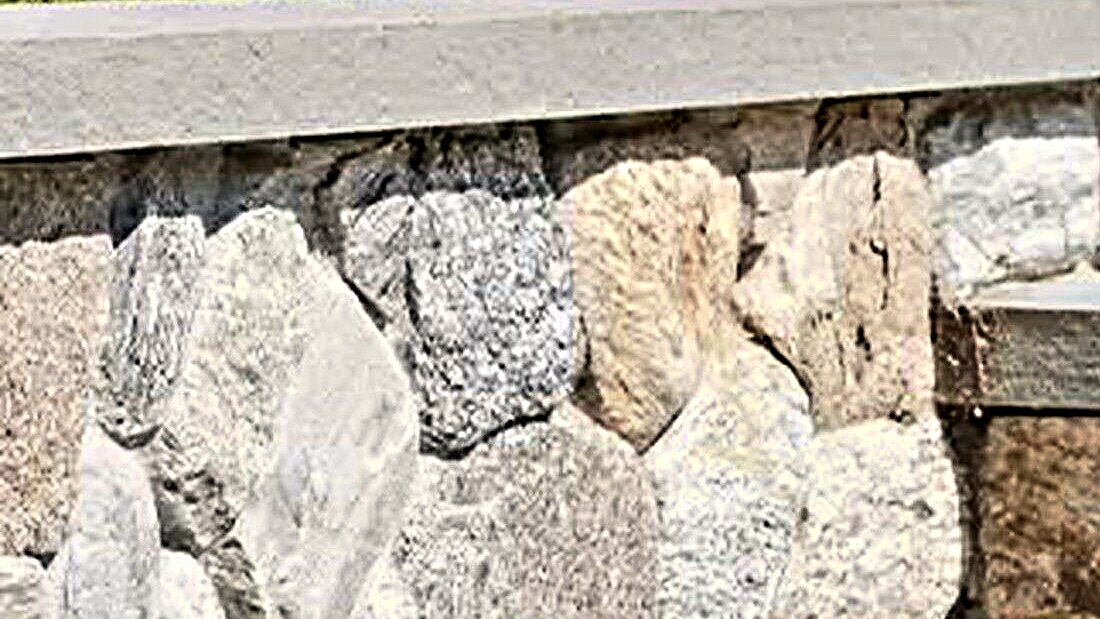
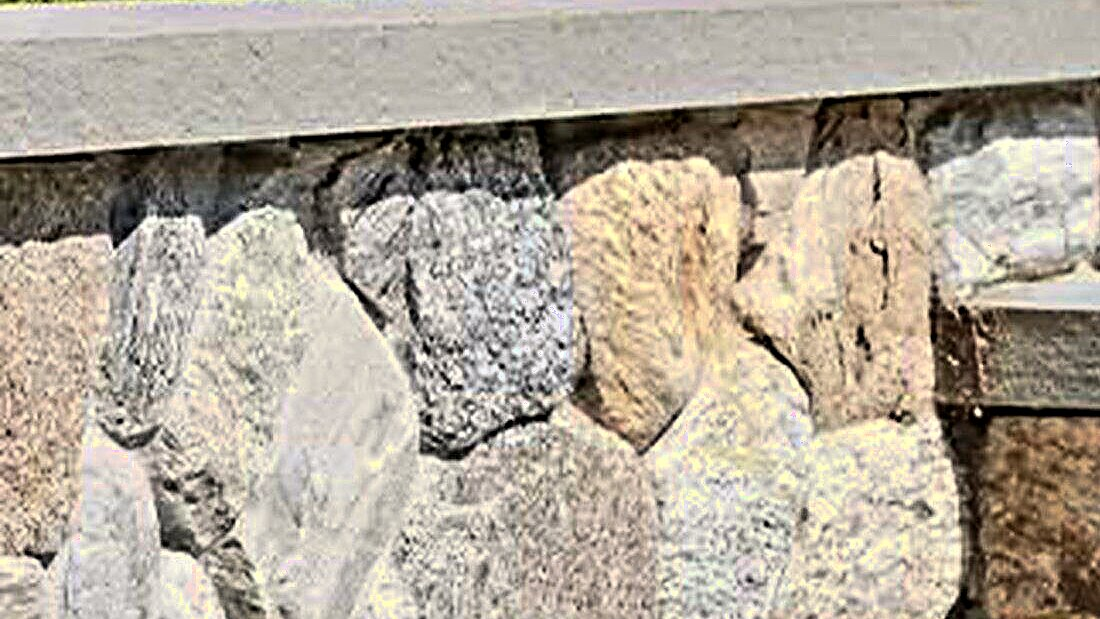
photo: hold the two detail frames back from the sun
craft-edge and steps-detail are shot in flat sun on light granite, so
they sat ~4 levels brighter than every other frame and read chalky next
to the dark section. Pulled them down (craft-edge bright 89/sat 97,
steps-detail bright 93/sat 96) — craft-edge mean 0.697 -> 0.654,
steps-detail -> 0.590, which is in range with the dusk frames while the
cap and mortar joints still read.

diff --git a/tools/grade-photos.py b/tools/grade-photos.py
@@ -67,8 +67,8 @@ TWEAK = {
     "craft-base": dict(sat=88),
     # sunlit granite on a white cap: hold it a few points down or the stone reads
     # as paper at full width, which is the exact defect this recipe exists to fix
-    "craft-edge": dict(bright=95, sat=94),
-    "steps-detail": dict(sat=88),
+    "craft-edge": dict(bright=89, sat=97),
+    "steps-detail": dict(bright=93, sat=96),
     # before/after must be identical treatments or the comparison is a lie
     "transform-before": dict(),
     "transform-after": dict(),
